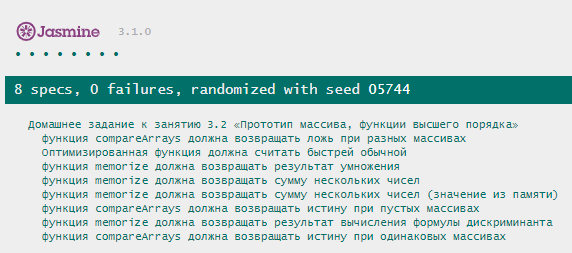
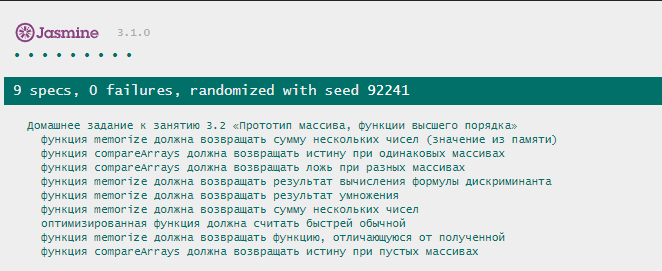
Update test

diff --git a/3.2-array-proto-hocs/tests.js b/3.2-array-proto-hocs/tests.js
@@ -32,6 +32,13 @@ describe('Домашнее задание к занятию 3.2 «Прототи
     expect(mSum(3, 8, 6, 7)).toEqual(24);
   });
 
+  it('функция memorize должна возвращать функцию, отличающуюся от полученной', () => {
+    const inputFunction = (a,b,c,d) => a + b + c + d;
+    const mSum = memorize(inputFunction, 10);
+    expect(typeof mSum).toEqual('function');
+    expect(mSum == inputFunction).toBeFalsy();
+  });
+
   it('оптимизированная функция должна считать быстрей обычной ', () => {
     const sleep = (milliseconds) => {
       let e = new Date().getTime() + milliseconds;

diff --git a/3.2-array-proto-hocs/README.md b/3.2-array-proto-hocs/README.md
@@ -25,7 +25,7 @@ function sleep(milliseconds)
 ```javascript
 function sum(...args) {
   // Замедление на половину секунды.
-  sleep(500); // Можно использовать другое значение замедления.
+  sleep(100); // Можно использовать другое значение замедления.
   return args.reduce((sum, arg) => {
     return sum += +arg;
   }, 0);
